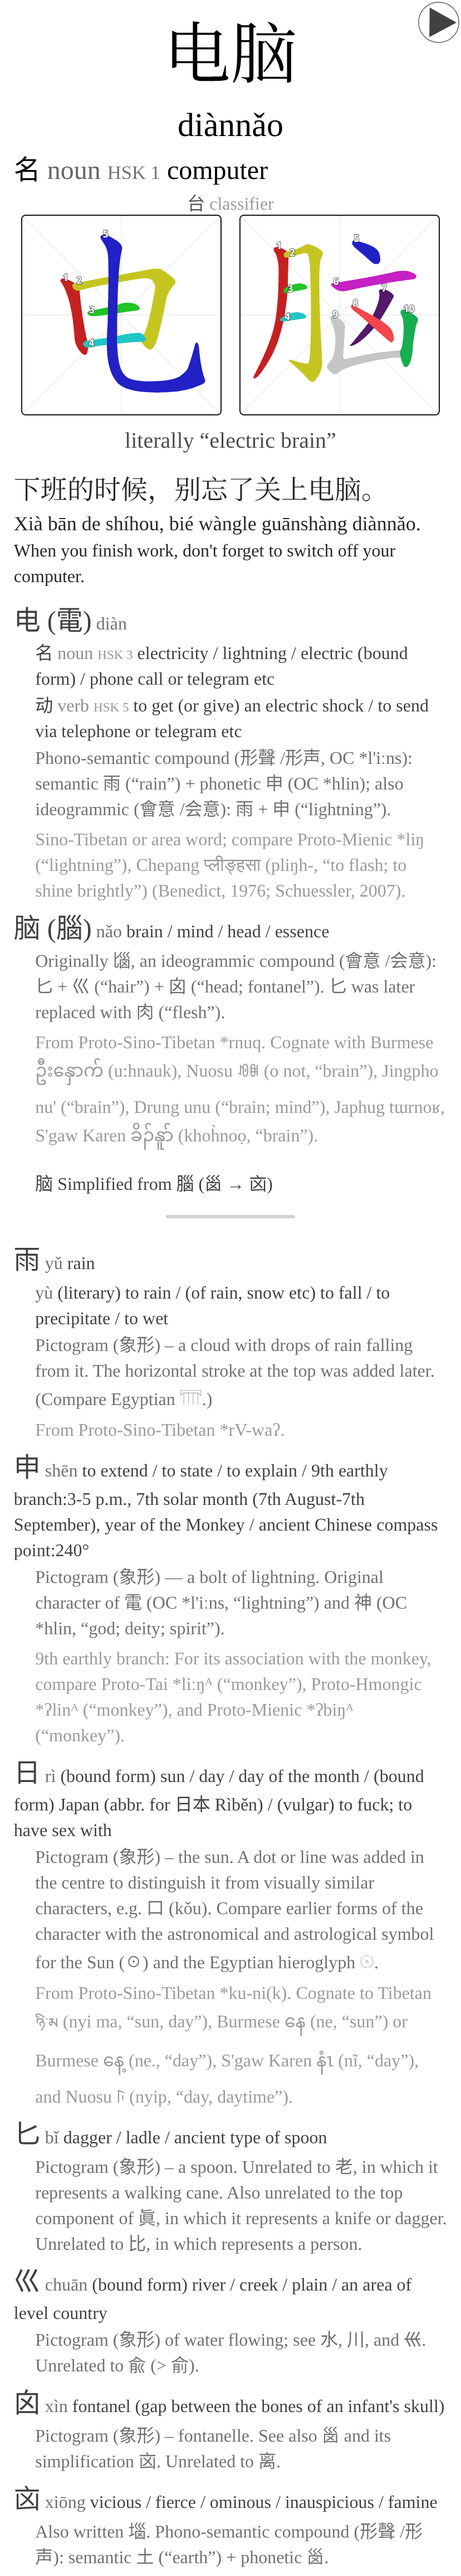
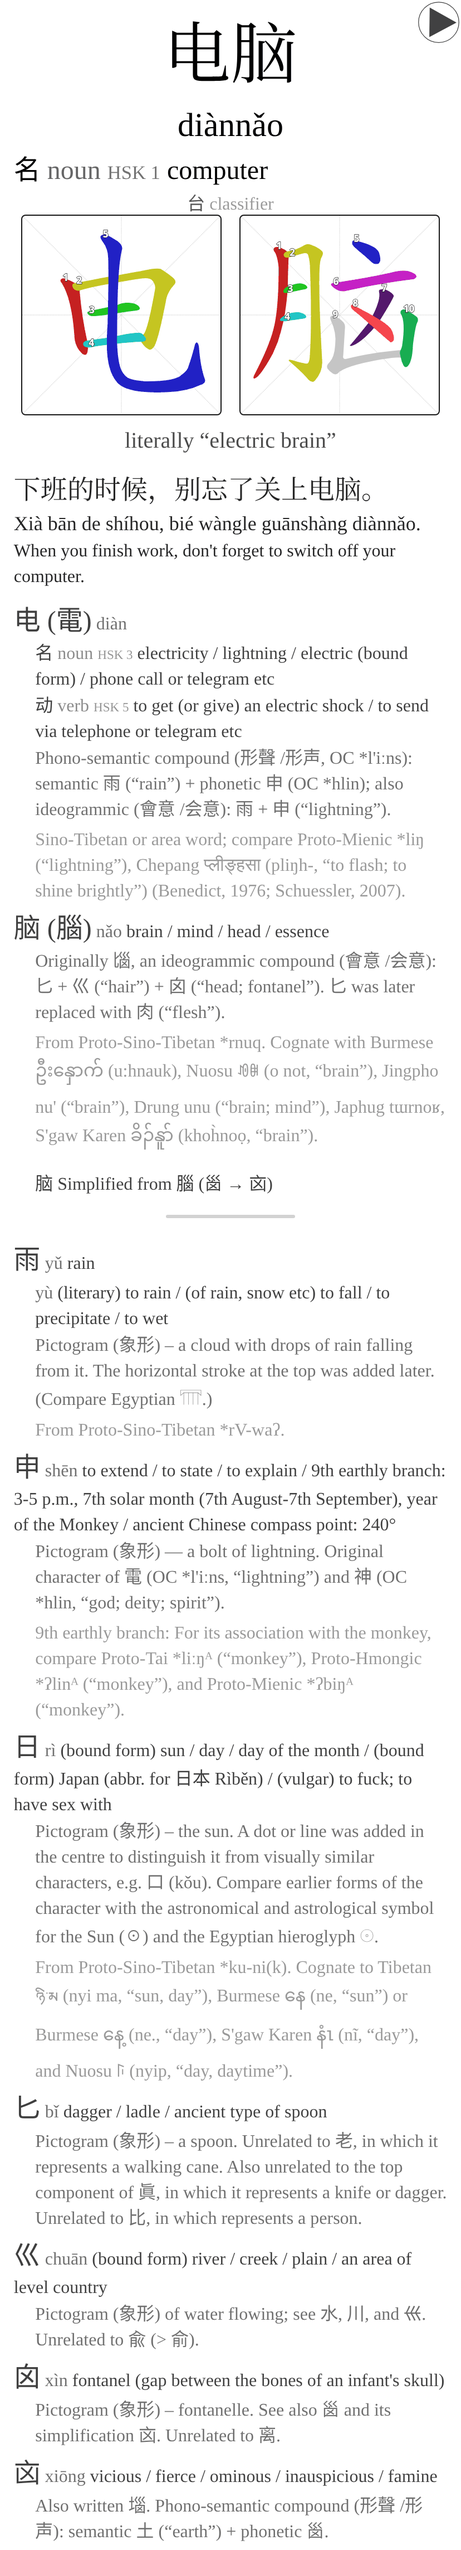
Read a part as the character it is on the page, and gloss it in full
An account names its parts in traditional-form prose, and the deck wrote
each one as the traditional character it teaches the simplified form for:
the 厂 inside 跪 was 廠 "factory" on 331 rows and the 广 under 店 was 廣
"wide" on 516, each dragging that character's origin and parts in after
it. A part that is a character in its own right is read as that character
now -- the cliff radical hǎn, the shelter yǎn, 后 the queen, 云 to say.

The Wiktionary glosses that stand in for a part no dictionary enters were
cut at 90 characters by 01, so 𦍌 ended "especially of COVID-1"; they are
kept whole, and the ones that are classifier notation or about another
character are left out. A shape the dump redirects is named as a form of
what it redirects to. The regex that closes CC-CEDICT's "nu : 3" matched
every colon in a gloss, so 1,983 notes read "compass point:240°". A card
for a single character leads its own row with the sense it teaches rather
than its homograph's, and the parts of speech the syllabus teaches come
before the ones it does not. An item can open on the marker of an image
the dump lost; a term merges with its description only when it is one.

In the sentences, 开 before 车 is "to drive (a vehicle)" rather than "to
start", 喂 on the telephone is hello, 当天 is the same day, 一则…二则 lists
reasons, and 苏 in 苏杭 is Suzhou.

diff --git a/scripts/deck/glossary.py b/scripts/deck/glossary.py
@@ -411,6 +411,9 @@ class Glossary:
         rows = [(p, self.leading(mine, lead), taught, lv) for p, mine, taught, lv in out]
         if rest:
             rows.append((None, self.leading(rest, lead), True, ""))
+        # What the syllabus teaches first, then what it does not label, then what it
+        # teaches as nothing; and before all of them, the sense the word draws on.
+        rows.sort(key=lambda r: 0 if r[0] and r[2] else 2 if r[0] else 1)
         rows.sort(key=lambda r: not (lead and sense_key(r[1][0]) == sense_key(lead)))
         # A part of speech the syllabus does not teach is set aside as "also" -- unless
         # it is the one this word is made of, which leads the row and is set as such,
@@ -425,7 +428,7 @@ class Glossary:
             for i, (p, mine, taught, lv) in enumerate(rows))
 
     def components(self, simplified: str, numbered: str = "",
-                   traditional: str = "") -> str:
+                   traditional: str = "", lead: str = "") -> str:
         """One entry per character: what it means, then where the glyph came from.
         The whole account, wherever the row stands -- 较 under 比较 is the same
         character as 较 on its own card, and the paragraph saying its phonetic was 爻
@@ -499,11 +502,19 @@ class Glossary:
             said = " / ".join(spoken_here)
             if said and worn:
                 said += (' <span class=sandhi>(' + " / ".join(worn) + " here)</span>")
-            lead = self.draws_on.get((simplified, ch), "")
+            # The sense the word is built from leads, where one is written down. A
+            # card for a single character is a word of its own, and leads with the
+            # sense it teaches rather than its homograph's: 花 the noun opens on
+            # "flower", not on 花1's "to spend".
             split = [x.strip() for x in senses.split("/") if x.strip()]
-            if lead and any(sense_key(s) == sense_key(lead) for s in split):
+            written = self.draws_on.get((simplified, ch), "")
+            if written and any(sense_key(s) == sense_key(written) for s in split):
                 self.drawn.add((simplified, ch))
+                lead = written
+            if lead and any(sense_key(s) == sense_key(lead) for s in split):
                 senses = " / ".join(self.leading(split, lead))
+            else:
+                lead = ""
             body = (headed(self.wiki, ch, trad)
                     + f'{f" <span class=charRead>{said}</span>" if said else ""} '
                     f'{self.under_pos(ch, reading_of.get(ch, ""), senses, lead)
@@ -767,9 +778,18 @@ class Glossary:
             # gathers a character's senses without regard to reading -- 子 is the suffix
             # and son and child and the first earthly branch all at once -- and stands in
             # only where the dictionary has nothing under any reading.
-            here = self.part_numbers(ch)
-            senses = " / ".join(g for g in (self.gloss_at(ch, r) for r in here) if g)
-            trad = self.meta(ch).get("traditional") or ch
+            # An account names its parts in the traditional-form prose, so a part the
+            # deck writes for another traditional character is, on the page, the
+            # character it is in its own right: the 厂 inside 跪 is the cliff radical
+            # and not 廠 the factory, and 广 under 店 is the shelter and not 廣.
+            own = [e for e in self.char_any.get(ch, []) if e[0] == ch]
+            if own and (self.meta(ch).get("traditional") or ch) != ch:
+                best = max(own, key=char_rank)
+                here, senses, trad = [syllable(best[4])], best[1], ch
+            else:
+                here = self.part_numbers(ch)
+                senses = " / ".join(g for g in (self.gloss_at(ch, r) for r in here) if g)
+                trad = self.meta(ch).get("traditional") or ch
             if not senses:
                 senses = " / ".join(senses_of(self.meta(ch).get("meaning", "")))
             if not senses:
@@ -784,10 +804,18 @@ class Glossary:
             # A part no dictionary enters at all -- 钅, 呂, 叀 -- still has a row, and
             # a row with a bold character and an origin under it says nothing of what
             # the character means. makemeahanzi's line answers for most, Wiktionary's
-            # own glosses for the rest.
+            # own glosses for others, less the ones that are notation or about another
+            # character, and a shape the dump redirects is named as a form of what it
+            # redirects to.
             if not senses:
-                senses = ((self.mmah.get(ch) or {}).get("definition")
-                          or " / ".join(self.etym_glosses(ch)[:3]))
+                senses = (self.mmah.get(ch) or {}).get("definition", "")
+            if not senses:
+                glosses = [g.rstrip(".") for g in self.etym_glosses(ch)
+                           if not re.search(r"\(Classifier:|^(?:alternative|variant) form of"
+                                            r"|^only used in|^used in", g, re.I)]
+                senses = " / ".join(list(dict.fromkeys(glosses))[:3])
+            if not senses and self.same_shape.get(ch):
+                senses = "form of " + " or ".join(sorted(self.same_shape[ch]))
             # A part the dictionary only points elsewhere for explains nothing: 夊 is
             # entered as "see 夂", and 退 answered what it is built from with a
             # cross-reference. The character it points at is the same shape rather than
@@ -797,7 +825,7 @@ class Glossary:
                 aimed = re.search(PART, senses)
                 if aimed and aimed.group() not in seen:
                     queue.insert(0, (aimed.group(), step))
-            said = (self.part_readings(ch)
+            said = (" / ".join(toned(r) for r in here)
                     or " / ".join((self.mmah.get(ch) or {}).get("pinyin") or []))
             body = (headed(self.wiki, ch, trad)
                     + f'{f" <span class=charRead>{said}</span>" if said else ""} ')

diff --git a/scripts/deck/etymology.py b/scripts/deck/etymology.py
@@ -150,6 +150,9 @@ def load_etymology():
             # heads three ":*" items and is followed by ": Qin dynasty", a sibling
             mark = BULLET.match(p)
             mark, p = (mark.group(1) if mark else ""), BULLET.sub("", p).strip()
+            # an item can open on the marker of an image the dump lost: 卒's "# : same
+            # as 衣", and "# ,: 𧙻 having 又 omitted"
+            p = re.sub(r"^[,:;\s]+", "", p)
             if out and not mark and p[:1].islower() \
                     and not re.search(r"[.!?:]$", out[-1][1]):
                 out[-1] = (out[-1][0], f"{out[-1][1]} {p}")
@@ -163,7 +166,10 @@ def load_etymology():
         kept, k = [], 0
         while k < len(out):
             m, p = out[k]
-            if m == ";" and k + 1 < len(out) and out[k + 1][0].startswith(":"):
+            # a term is short and closes on nothing; 洋's "“multitudinous; vast;
+            # ocean”: Schuessler (2007) compares it..." is a paragraph marked as one
+            if (m == ";" and k + 1 < len(out) and out[k + 1][0].startswith(":")
+                    and len(p) < AS_A_PHRASE and not re.search(r"[.!?]$", p)):
                 kept.append((":", f"{p.rstrip(':')}: {out[k + 1][1]}"))
                 k += 2
             elif m != ";" or (k + 1 < len(out) and out[k + 1][0] != ";"):
@@ -191,7 +197,10 @@ def load_etymology():
         # on clipping 洛必達法則 for l'Hôpital's rule. Only the items nested under the
         # head: a head that is itself an item is followed by its siblings.
         j = i
-        while re.search(r"[:：]$", head) and j < len(ps) and len(ps[j][0]) > depth:
+        # ...and a term's description, which is the plain paragraph after it: 幸's
+        # "The glyph in Sanjin (三晉)" is followed by what that glyph is.
+        while re.search(r"[:：]$", head) and j < len(ps) and (
+                len(ps[j][0]) > depth or (ps[j - 1][0] == ";" and not ps[j][0])):
             # an item closes on its own stop, or on the "; and" that led to the next
             items.append(re.sub(r"(?:;\s*and|[;.,])\s*$", "", ps[j][1]))
             j += 1

diff --git a/scripts/deck/vocabulary.py b/scripts/deck/vocabulary.py
@@ -10,7 +10,7 @@ import genanki
 
 from syllabus import LEVELS, POS_SPLIT
 from deck.paths import BUILD, ROOT
-from deck.notation import TONE_MARK, clean_xrefs, render_senses, spoken, ways_read
+from deck.notation import TONE_MARK, clean_xrefs, render_senses, senses_of, spoken, ways_read
 from deck.models import SECTIONS, deck, vocab_model
 from word import Word
 
@@ -258,7 +258,9 @@ def build_vocabulary(words: list[Word], wiki, media, number, gloss, pos,
                 wiki.markup(w.get("classifier", "")), w["audio"],
                 wiki.markup(" ".join(w["homophone"][:12])), also_read(w, by_entry_all, pos),
                 w["stroke_order"],
-                gloss.components(w["simplified"], w["pinyin_numbered"], w["traditional"]),
+                gloss.components(w["simplified"], w["pinyin_numbered"], w["traditional"],
+                                 lead=(senses_of(w["meaning"]) or [""])[0]
+                                 if len(w["simplified"]) == 1 else ""),
                 html.escape(literal.get(w["traditional"], ""), quote=False),
                 # filled in once the sentences have been built, below
                 "",

diff --git a/scripts/deck/notation.py b/scripts/deck/notation.py
@@ -106,7 +106,7 @@ def clean_xrefs(text: str) -> str:
     # CC-CEDICT spells the umlaut u: and writes it apart in 27 entries -- 女孩兒 is
     # "erhua form of 女孩[nu : 3 hai2]". The syllable will not parse spelled that way
     # and is dropped without a word, leaving 女孩儿 glossed "erhua form of 女孩 hái".
-    text = re.sub(r"(?<=[a-zA-Z])\s*:\s*(?=[1-5])", ":", text)
+    text = re.sub(r"(?<=[nl]u)\s*:\s*(?=[1-5])", ":", text)
 
     def reading(numbered: str) -> str:
         """The syllables as one word, broken where a capital starts another.

diff --git a/scripts/01_wiktionary_index.py b/scripts/01_wiktionary_index.py
@@ -100,7 +100,7 @@ def main() -> int:
                     sections.append({
                         "text": text,
                         "type": (liushu[0].get("args", {}).get("1") or "") if liushu else "",
-                        "glosses": [g[:90] for g in glosses],
+                        "glosses": glosses,
                         "senses": len(d.get("senses") or []),
                     })
             lit = (d.get("literal_meaning") or "").strip()
